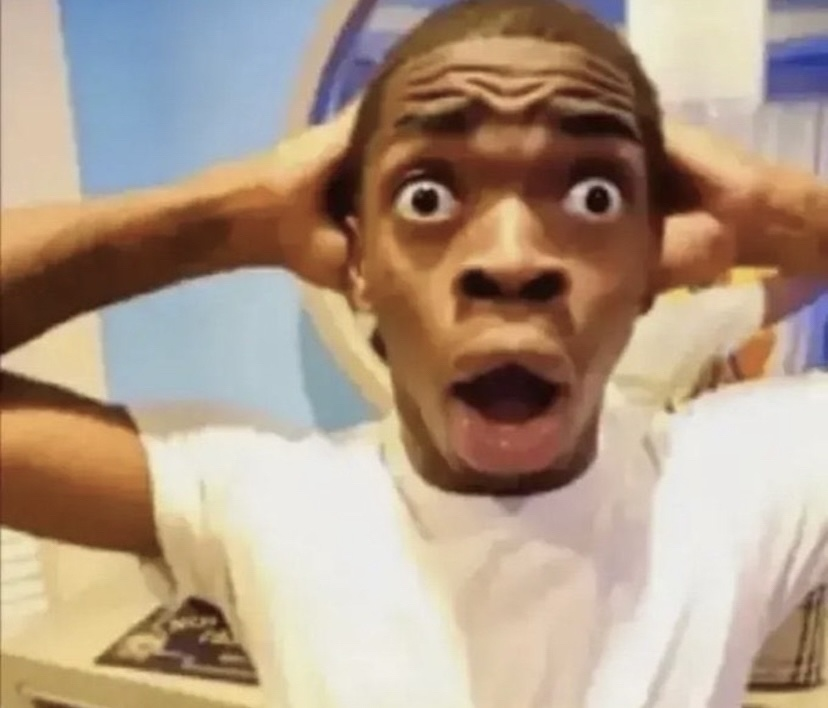
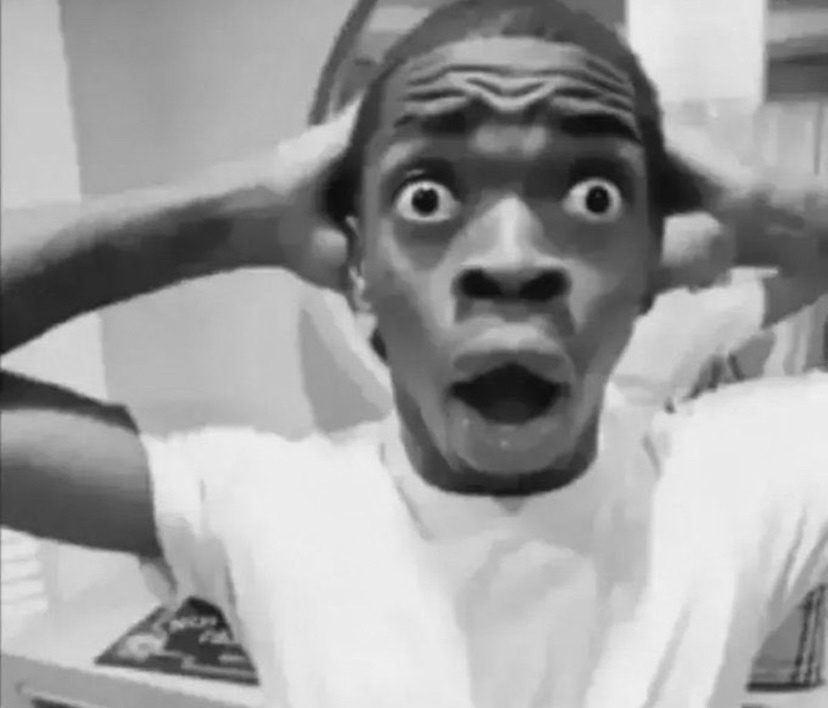
learned a bit of numpy and opencv, started dividing the image

diff --git a/main.py b/main.py
@@ -1,6 +1,6 @@
 import tkinter
 import customtkinter
-import numpy
+import numpy as np
 import cv2 as cv
 import sys
 
@@ -8,14 +8,26 @@ import sys
 
 img = cv.imread(filename="huh.jpg")
 
+
+
 if img is None:
     sys.exit("could not read the file.")
 
-cv.imshow("Display window", img)
-k = cv.waitKey(0)
+img_clone = img.copy()
+img = cv.cvtColor(img, cv.COLOR_BGR2GRAY)
 
-if k == ord("s"):
-    cv.imwrite("huh.jpg",img)
+for row in img:
+    for pixel in row:
+        if pixel > 126:
+            print('&',end="")
+            continue
+        print('.',end="")
+    print("\n")
+# cv.imshow("Display window", img)
+# k = cv.waitKey(0)
+
+# if k == ord("s"):
+#     cv.imwrite("huh.jpg",img)
     
 
 # customtkinter.set_appearance_mode("system")
